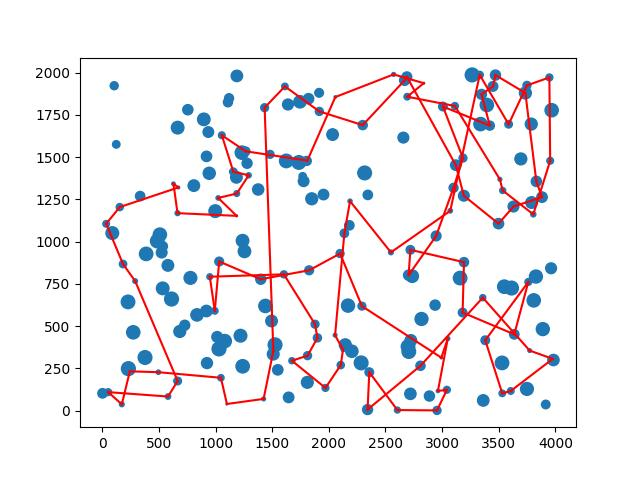
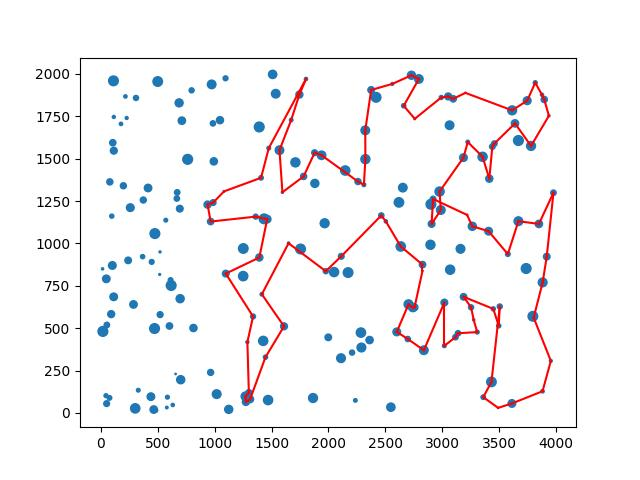
add greedy cycle

diff --git a/lab1/src/greedy_cycle.cpp b/lab1/src/greedy_cycle.cpp
@@ -1,0 +1,100 @@
+#include "greedy_cycle.h"
+#include "utils.h"
+
+#include <iostream>
+#include <algorithm>
+#include <random>
+#include <set>
+#include <limits>
+
+using namespace std;
+using namespace N;
+
+void GreedyCycle::generate(vector<vector<int>> dist_mat, vector<int> costs, int start_node, int n_nodes)
+{
+    this->add_node(start_node);
+    int second_node = most_beneficial_node(dist_mat[start_node], costs, this->get_nodes());
+    this->add_node(second_node);
+
+    vector<vector<int>> edges;
+    edges.push_back(vector<int>{start_node,second_node});
+    edges.push_back(vector<int>{second_node,start_node});
+
+    while(this->get_number_of_nodes() < n_nodes){
+        int node_to_add_idx = -1;
+        int edge_to_remove_idx = -1;
+        int min_total_cost = numeric_limits<int>::max();
+        
+        for(int edge_idx=0; edge_idx<edges.size(); edge_idx++){
+
+            int node1 = edges[edge_idx][0];
+            int node2 = edges[edge_idx][1];
+
+            for(int node_idx=0; node_idx<dist_mat.size(); node_idx++){
+
+                if(!contain(this->get_nodes(), node_idx)){
+
+                    int total_cost = dist_mat[node1][node_idx] +
+                                    dist_mat[node2][node_idx] -
+                                    dist_mat[node1][node2] + costs[node_idx];
+
+                    if(total_cost < min_total_cost){
+
+                        min_total_cost = total_cost;
+                        edge_to_remove_idx = edge_idx;
+                        node_to_add_idx = node_idx;
+                    }
+                }
+            }
+        }
+
+        int node_to_connect_1 = edges[edge_to_remove_idx][0];
+        int node_to_connect_2 = edges[edge_to_remove_idx][1];
+
+        edges.erase(edges.begin() + edge_to_remove_idx);
+        edges.push_back(vector<int>{node_to_connect_1,node_to_add_idx});
+        edges.push_back(vector<int>{node_to_connect_2,node_to_add_idx});
+
+        this->add_node(node_to_add_idx);
+    }
+
+    vector<int> correct_order_nodes;
+    correct_order_nodes.push_back(start_node);
+    while(edges.size()>1){
+        for(int i=0; i<edges.size(); i++){
+            if(edges[i][0] == correct_order_nodes.back()){
+                correct_order_nodes.push_back(edges[i][1]);
+                edges.erase(edges.begin() + i);
+                // continue;
+            }else if (edges[i][1] == correct_order_nodes.back()){
+                correct_order_nodes.push_back(edges[i][0]);
+                edges.erase(edges.begin() + i);
+                // continue;
+            }
+        }
+    }
+    
+    this->set_nodes(correct_order_nodes);
+
+
+}
+
+
+
+int GreedyCycle::most_beneficial_node(vector<int> all_distances, vector<int> all_costs, vector<int> excluded_nodes){
+    
+    int min_idx = -1;
+    int min_total_cost = numeric_limits<int>::max();
+
+    for(int i=0; i<all_distances.size(); i++){
+        if(!contain(excluded_nodes, i)){
+
+            int tmp_total_cost = all_distances[i]+ all_costs[i];
+            if(tmp_total_cost < min_total_cost){
+                min_idx = i;
+                min_total_cost = tmp_total_cost;
+            }
+        }
+    }
+    return min_idx;
+}

diff --git a/lab1/src/problem_solver.cpp b/lab1/src/problem_solver.cpp
@@ -2,6 +2,8 @@
 #include "distance_matrix_creator.h"
 #include "solution.h"
 #include "random_solution.h"
+#include "nearest_neighbor.h"
+#include "greedy_cycle.h"
 #include "utils.h"
 
 #include <iostream>
@@ -53,12 +55,12 @@ void ProblemSolver::generate_solutions(string method)
 
         if (method == "NEAREST_NEIGHBOR")
         {
-            temp_eval = -1; // ;)
+            temp_eval = nearest_neighbor_solution_score(this->n_nodes, i);
         }
 
         if (method == "GREEDY_CYCLE")
         {
-            temp_eval = -111; // ;)
+            temp_eval = greedy_cycle_solution_score(this->n_nodes, i);
         }
 
         evaluations.push_back(temp_eval);
@@ -83,6 +85,42 @@ int ProblemSolver::random_solution_score(int total_nodes, int n_nodes)
 
     // Evaluate solution
     temp_eval = rand_sol.evaluate(&this->dist_mat, &this->costs);
+
+    return temp_eval;
+}
+
+int ProblemSolver::nearest_neighbor_solution_score(int n_nodes, int start_node)
+{
+
+    // For temporal storage
+    int temp_eval;
+
+    // Create new random solution
+    NearestNeighbor nearest_neighbor_sol;
+
+    // Generate new solution
+    nearest_neighbor_sol.generate(this->dist_mat, this->costs, start_node, n_nodes);
+
+    // Evaluate solution
+    temp_eval = nearest_neighbor_sol.evaluate(&this->dist_mat, &this->costs);
+
+    return temp_eval;
+}
+
+int ProblemSolver::greedy_cycle_solution_score(int n_nodes, int start_node)
+{
+
+    // For temporal storage
+    int temp_eval;
+
+    // Create new random solution
+    GreedyCycle greedy_cycle_sol;
+
+    // Generate new solution
+    greedy_cycle_sol.generate(this->dist_mat, this->costs, start_node, n_nodes);
+
+    // Evaluate solution
+    temp_eval = greedy_cycle_sol.evaluate(&this->dist_mat, &this->costs);
 
     return temp_eval;
 }

diff --git a/lab1/src/nearest_neighbor.cpp b/lab1/src/nearest_neighbor.cpp
@@ -1,4 +1,5 @@
 #include "nearest_neighbor.h"
+#include "utils.h"
 
 #include <iostream>
 #include <algorithm>
@@ -22,15 +23,6 @@ void NearestNeighbor::generate(vector<vector<int>> dist_mat, vector<int> costs, 
     }
 }
 
-bool NearestNeighbor::contain(vector<int> vec, int value){
-    for(int i=0; i<vec.size(); i++){
-        if(vec[i] == value){
-            return true;
-        }
-    }
-    return false;
-}
-
 int NearestNeighbor::most_beneficial_node(vector<int> all_distances, vector<int> all_costs, vector<int> excluded_nodes){
     
     int min_idx = -1;
@@ -39,7 +31,7 @@ int NearestNeighbor::most_beneficial_node(vector<int> all_distances, vector<int>
     for(int i=0; i<all_distances.size(); i++){
         if(!contain(excluded_nodes, i)){
 
-            int tmp_total_cost = all_distances[i] + all_costs[i];
+            int tmp_total_cost = all_distances[i]+ all_costs[i];
             if(tmp_total_cost < min_total_cost){
                 min_idx = i;
                 min_total_cost = tmp_total_cost;

diff --git a/lab1/src/solution.cpp b/lab1/src/solution.cpp
@@ -13,6 +13,12 @@ void Solution::add_node(int node)
     this->nodes.push_back(node);
 }
 
+void Solution::set_nodes(vector<int> nodes)
+{
+    // Set nodes
+    this->nodes = nodes;
+}
+
 vector<int> Solution::get_nodes()
 {
     return this->nodes;
@@ -59,8 +65,9 @@ void Solution::print()
 
     for (int i = 0; i < this->nodes.size(); i++)
     {
-        cout << this->nodes[i] << endl;
+        cout << this->nodes[i] << " ";
     }
+    cout << endl;
 }
 
 void Solution::write_to_csv(string filename)

diff --git a/lab1/src/problem_solver.h b/lab1/src/problem_solver.h
@@ -20,6 +20,8 @@ namespace N
         ProblemSolver(std::string instance_filename, double fraction_nodes);
         void generate_solutions(std::string method);
         int random_solution_score(int total_nodes, int n_nodes);
+        int nearest_neighbor_solution_score(int n_nodes, int start_node);
+        int greedy_cycle_solution_score(int n_nodes, int start_node);
         void print_solution_stats(std::vector<int>* evaluations);
     };
 

diff --git a/lab1/src/main.cpp b/lab1/src/main.cpp
@@ -1,5 +1,8 @@
 #include "problem_solver.h"
 
+#include "greedy_cycle.h"
+#include "distance_matrix_creator.h"
+
 #include <vector>
 #include <iostream>
 
@@ -17,7 +20,7 @@ int main()
     for (auto instance_filename : instances)
     {
         ProblemSolver ps = ProblemSolver(instance_filename, 0.5);
-        ps.generate_solutions("RANDOM");
+        ps.generate_solutions("NEAREST_NEIGHBOR");
     }
 
     return 0;

diff --git a/lab1/src/utils.h b/lab1/src/utils.h
@@ -12,6 +12,16 @@ void read_csv(std::string filename,
 double euclidean_distance(int x1, int y1, int x2, int y2);
 
 template <typename T>
+T contain(std::vector<T> vec, T value){
+    for(int i=0; i<vec.size(); i++){
+        if(vec[i] == value){
+            return true;
+        }
+    }
+    return false;
+}
+
+template <typename T>
 double mean(std::vector<T> vec)
 {
 

diff --git a/lab1/src/solution.h b/lab1/src/solution.h
@@ -15,6 +15,7 @@ namespace N
 
     public:
         void add_node(int node);
+        void set_nodes(std::vector<int> nodes);
         std::vector<int> get_nodes();
         int get_number_of_nodes();
         int evaluate(std::vector<std::vector<int>>* dist_mat, std::vector<int> *costs);

diff --git a/plotting/make_plot.py b/plotting/make_plot.py
@@ -2,7 +2,7 @@ import pandas as pd
 import matplotlib.pyplot as plt
 import numpy as np
 
-nodes = pd.read_csv('lab1/TSPA.csv', sep=';', header=None).to_numpy()
+nodes = pd.read_csv('lab1/TSPD.csv', sep=';', header=None).to_numpy()
 xs = nodes[:,0]
 ys = nodes[:,1]
 costs = nodes[:,2]

diff --git a/lab1/src/greedy_cycle.h b/lab1/src/greedy_cycle.h
@@ -2,13 +2,13 @@
 
 #include "solution.h"
 
-#ifndef _NEARESTNEIGHBOR_H
-#define _NEARESTNEIGHBOR_H
+#ifndef _GREEDYCYCLE_H
+#define _GREEDYCYCLE_H
 
 namespace N
 {
 
-    class NearestNeighbor : public Solution
+    class GreedyCycle : public Solution
     {
 
     public:

diff --git a/lab1/src/utils.cpp b/lab1/src/utils.cpp
@@ -3,6 +3,7 @@
 #include <sstream>
 #include <string>
 #include <vector>
+#include <math.h>
 
 #include "utils.h"
 
